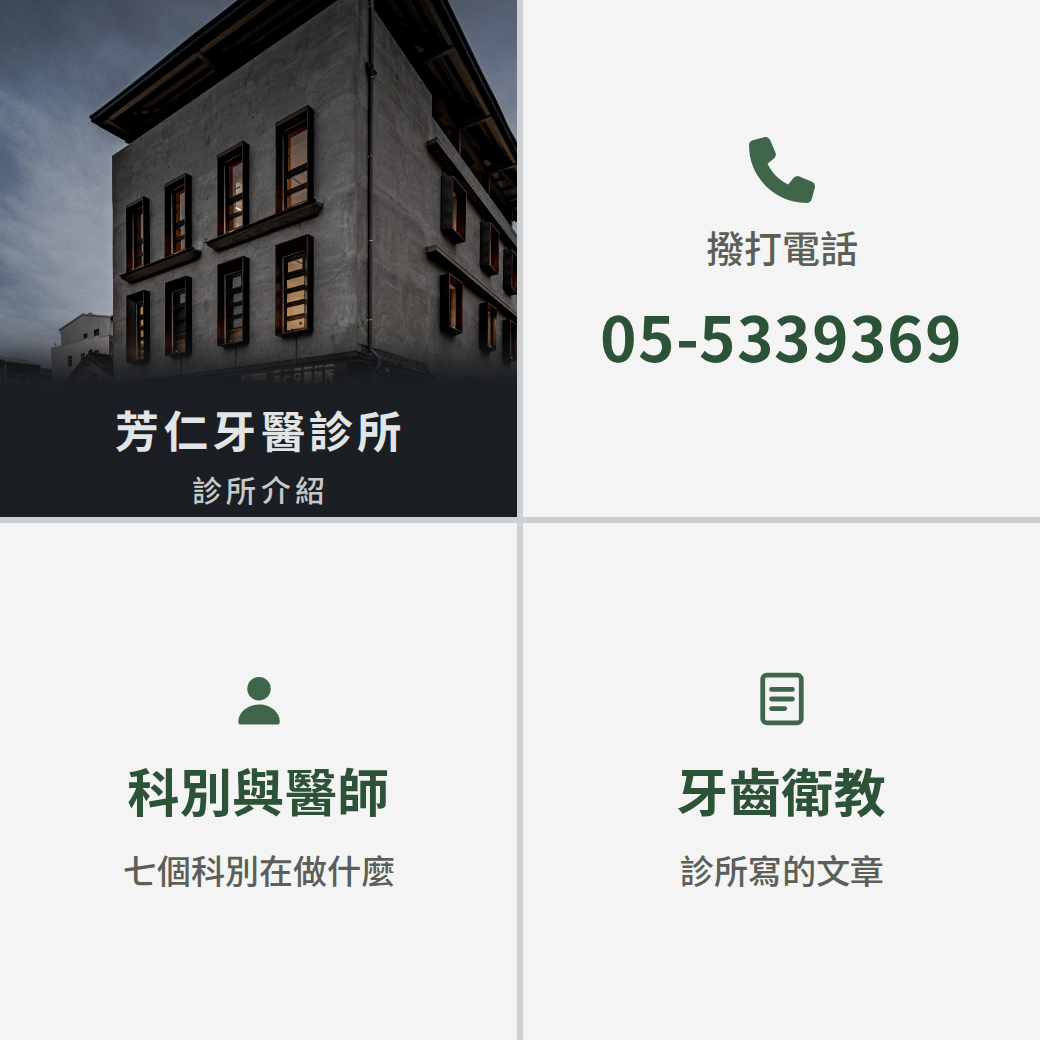
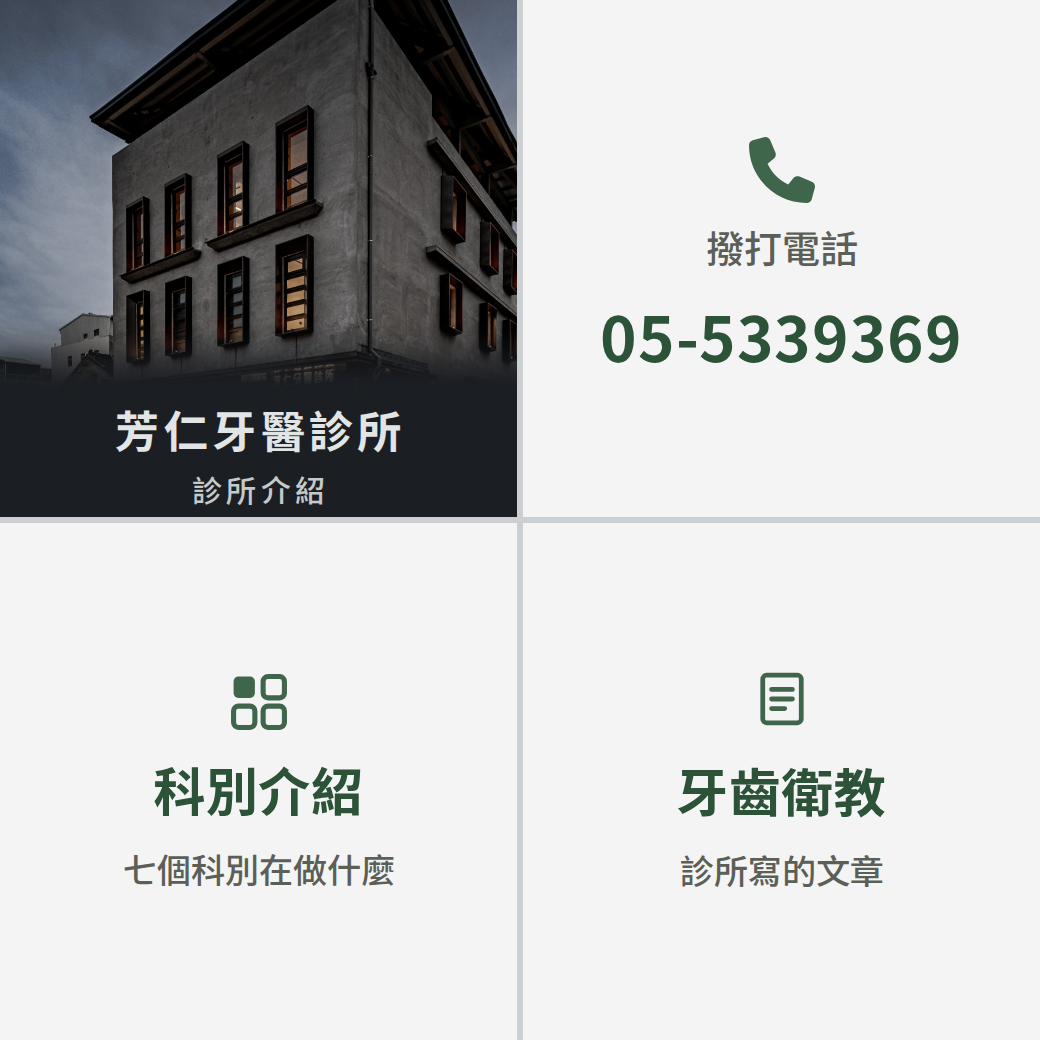
LINE：補上每一格的連結設定表，「科別與醫師」改成「科別介紹」
使用者問四格圖的「科別與醫師」會連到哪裡 —— 那一格原本就沒對齊：
站上 #topics 與 #doctors 是兩個段落，一個連結只能去一個地方。
改成「科別介紹」連 /#topics（副標本來就只在講科別），醫師沒有掉，
每一科的著陸頁裡就有那一科的醫師。圖示從人像換成四個分類方塊。

README 補第十一節：三張圖每一格要填的動作與網址，以及站上可以指的
四個錨點（#topics／#articles／#doctors／#clinic）。約診提醒沒有格子，
它是推播、沒有可以點的去處。

Claude-Session: https://claude.ai/code/session_01XYwYJoHc1We7z3qC49kjKr

Changed region(s): [[0.1231, 0.7385, 0.3692, 0.8615], [0.2154, 0.6462, 0.2769, 0.7077]]

diff --git a/preview/line-reply/index.html b/preview/line-reply/index.html
@@ -150,16 +150,16 @@ h1{font-size:1rem;font-weight:700;letter-spacing:.02em}
     pair:  { name: "各用各的（建議）",
              img: function (sc) { return sc === "hello" ? "rich-4b.png" : "rich-2.png"; },
              tap: function (sc) { return sc === "hello"
-               ? "診所介紹→官網、直接撥號、科別與醫師→官網、牙齒衛教→官網"
-               : "上半開官網、下半直接撥號"; } },
+               ? "診所介紹→fangren.net、直接撥號、科別介紹→/#topics、牙齒衛教→/#articles"
+               : "上半→fangren.net、下半直接撥號"; } },
     both:  { name: "都用功能版",
              img: function () { return "rich-4b.png"; },
-             tap: function () { return "診所介紹→官網、直接撥號、科別與醫師→官網、牙齒衛教→官網"; } },
+             tap: function () { return "診所介紹→fangren.net、直接撥號、科別介紹→/#topics、牙齒衛教→/#articles"; } },
     pair2: { name: "回應改用捷徑版",
              img: function (sc) { return sc === "hello" ? "rich-4b.png" : "rich-4.png"; },
              tap: function (sc) { return sc === "hello"
-               ? "診所介紹→官網、直接撥號、科別與醫師→官網、牙齒衛教→官網"
-               : "診所網站、直接撥號、門診表、Google 地圖"; } },
+               ? "診所介紹→fangren.net、直接撥號、科別介紹→/#topics、牙齒衛教→/#articles"
+               : "fangren.net、直接撥號、/#clinic、Google 地圖"; } },
     text:  { name: "只有文字" },
     now:   { name: "現況" }
   };
